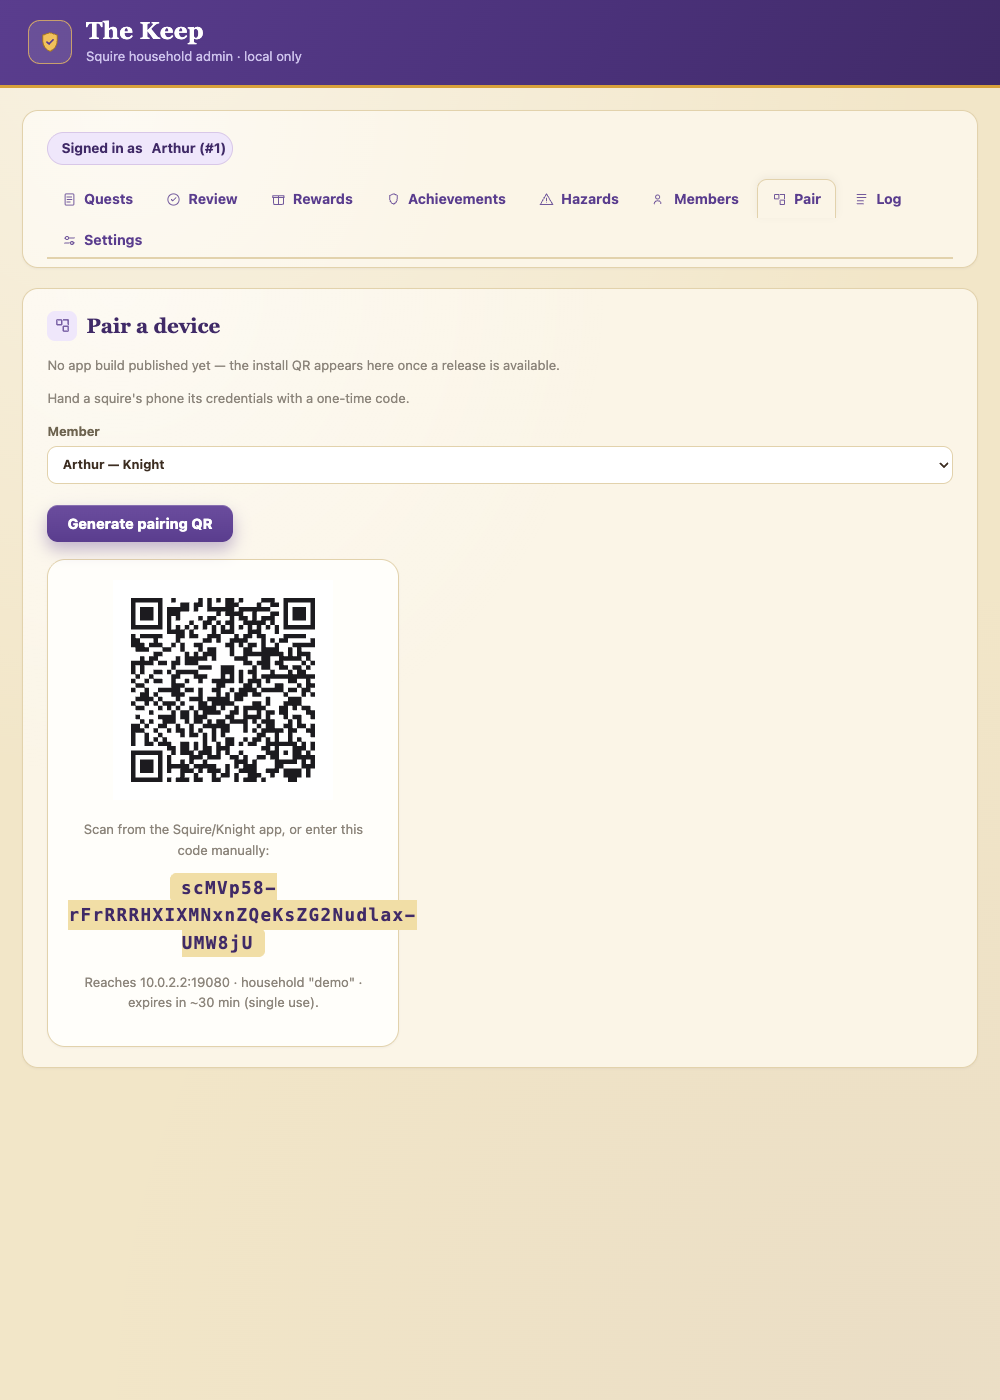
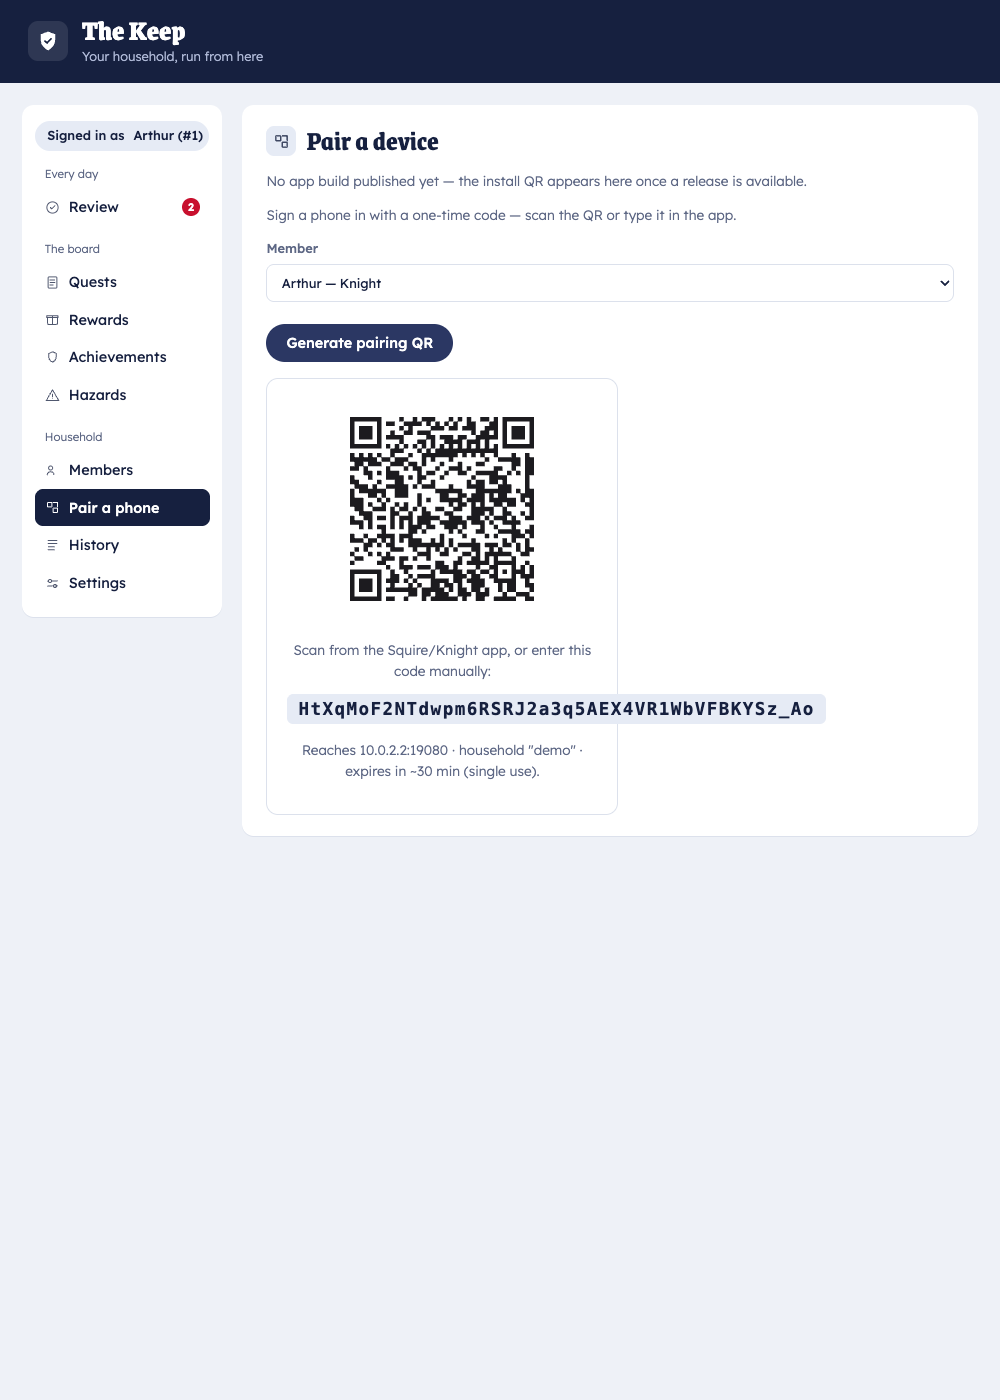
Keep: collapsed quest panel only on wide layouts; docs screenshots refreshed for the Heraldic look
The :has() rule that hands the board the panel's width when closed outranked
the single-column media rule and squeezed the New-quest button at exactly
1000px; it is now scoped to wider layouts. `angreal docs shots` re-captured
all eleven doc-site images.

Claude-Session: https://claude.ai/code/session_01AVUsM6xy9CcxMuLvBpemKz

diff --git a/crates/keep/assets/keep.css b/crates/keep/assets/keep.css
@@ -475,8 +475,10 @@ pre {
 /* Board first (SQUIRE-T-0135): the list is what you came for; the form is a panel beside it. */
 .quests-grid { display: grid; grid-template-columns: minmax(0, 1fr) 320px; gap: 1.5rem; align-items: start; }
 .quests-make { order: 2; }
-/* Closed, the panel is just its button — give the board the width back. */
-.quests-grid:has(.quests-make:not([open])) { grid-template-columns: minmax(0, 1fr) auto; }
+/* Closed, the panel is just its button — give the board the width back (wide layouts only: the
+   :has() selector outranks the single-column media rule below, so it must not apply there). */
+@media (min-width: 1001px) { .quests-grid:has(.quests-make:not([open])) { grid-template-columns: minmax(0, 1fr) auto; } }
+details.compose > summary { white-space: nowrap; }
 .quests-board { order: 1; }
 .quests-make {
   background: var(--parch-light); border: 1px solid var(--line);
